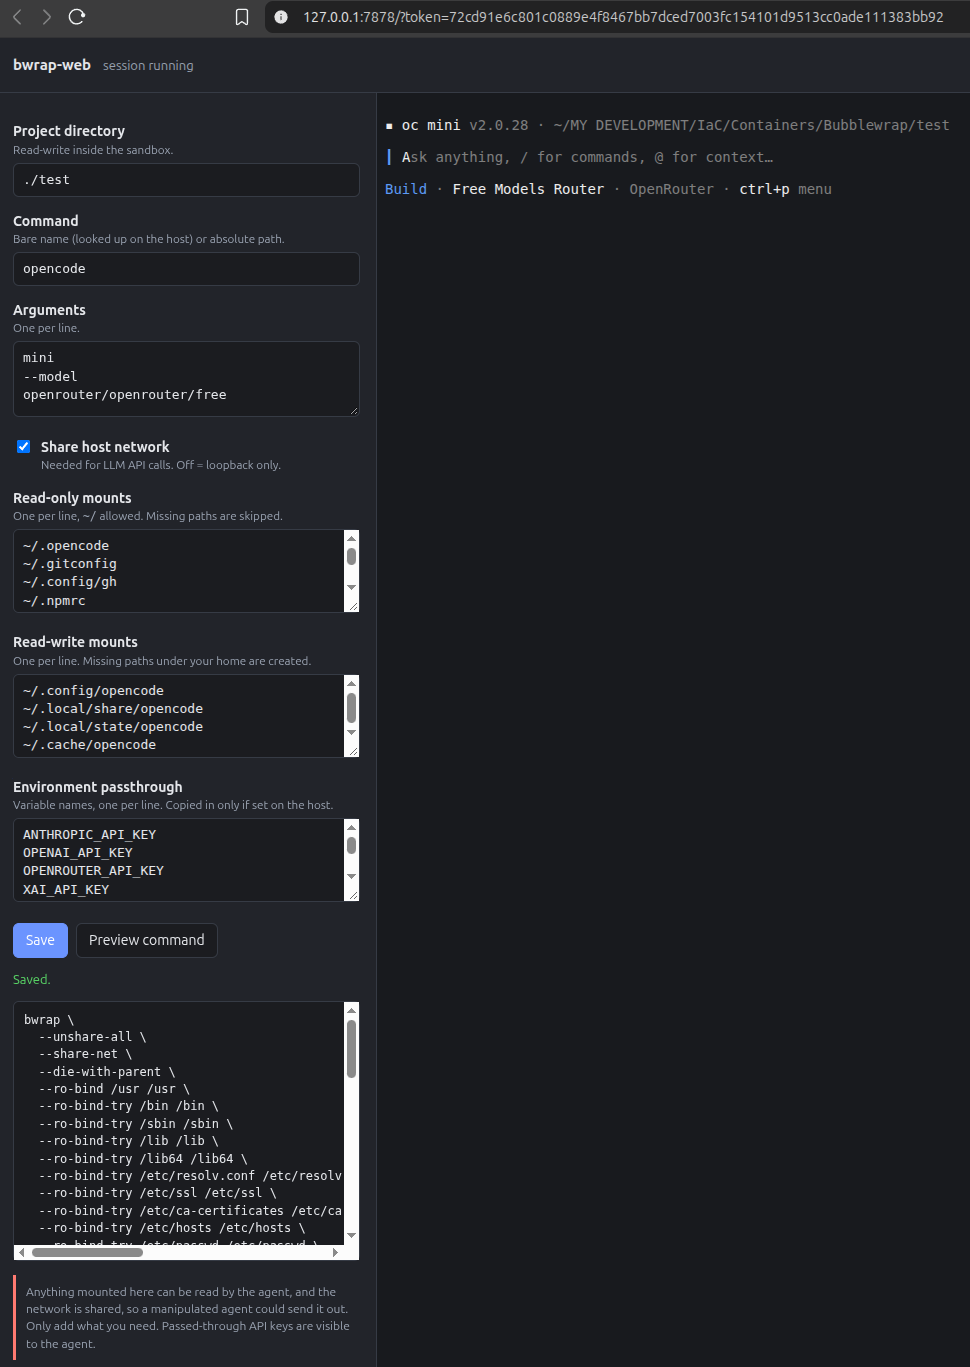
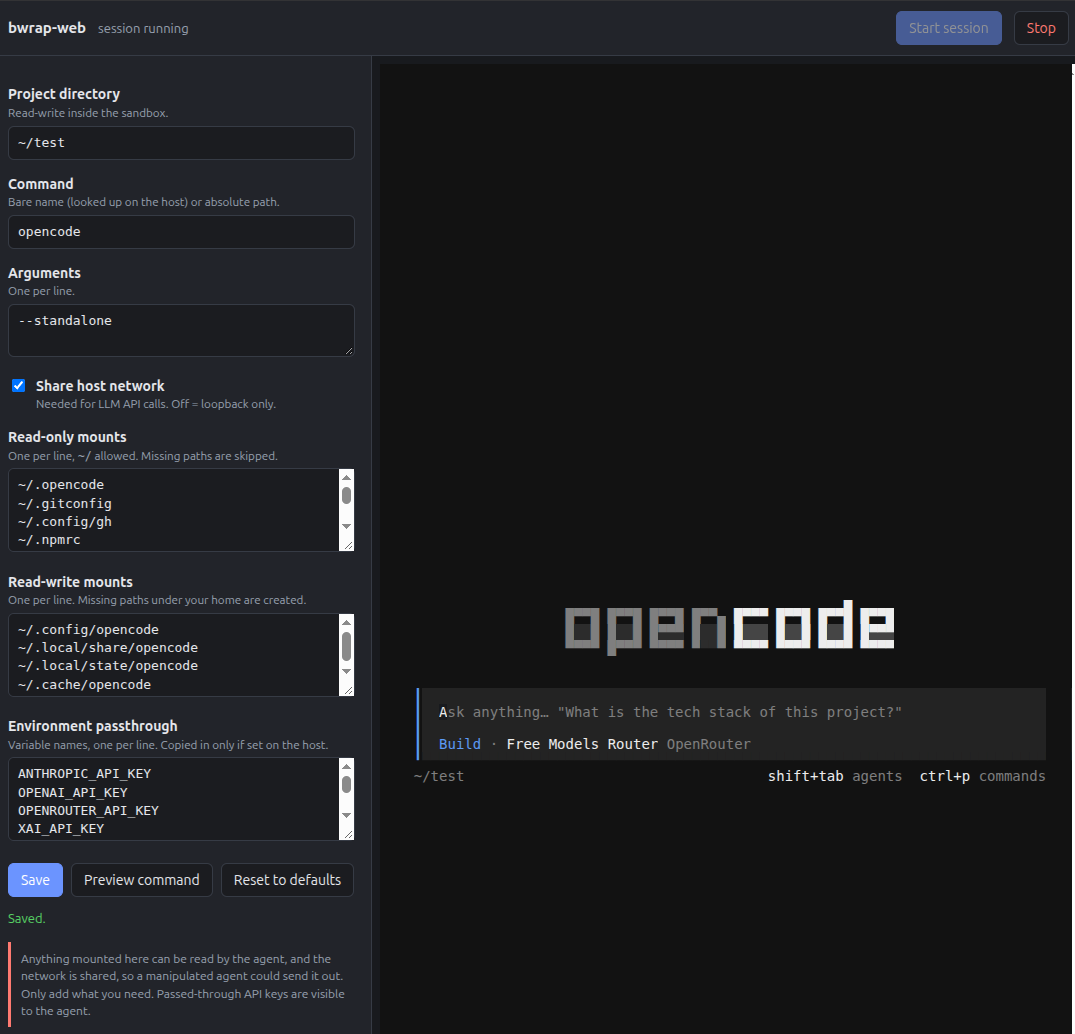
Update README, example image, and source code

diff --git a/src/main.rs b/src/main.rs
@@ -49,7 +49,9 @@ const PROTECTED_RW: [&str; 10] = [
 #[serde(default)]
 struct Config {
     /// Directory the agent may read and write (the "project"). Relative paths are
-    /// resolved against the directory bwrap-web was started from.
+    /// resolved against the directory bwrap-web was started from. Paths under
+    /// `$HOME` are stored in `~/...` form, which `expand` resolves back to the
+    /// same absolute path.
     project_dir: String,
     /// Program to run inside the sandbox: bare name (looked up on the host) or absolute path.
     command: String,
@@ -73,7 +75,13 @@ impl Default for Config {
                 .map(|p| p.to_string_lossy().into_owned())
                 .unwrap_or_default(),
             command: "opencode".into(),
-            args: vec![],
+            // `--standalone` makes the agent run its own server as a child
+            // process instead of attaching to the long-lived host-side
+            // `opencode serve` daemon, whose tool calls would run outside these
+            // namespaces. Note that OpenCode only accepts the flag at the
+            // position shown here — before a subcommand it rejects it — so
+            // "run"/"mini" invocations need it after the subcommand instead.
+            args: vec!["--standalone".into()],
             share_net: true,
             ro_mounts: strs(&[
                 "~/.opencode",
@@ -129,8 +137,8 @@ fn clean_list(v: &[String]) -> Vec<String> {
 }
 
 impl Config {
-    fn normalized(mut self) -> Config {
-        self.project_dir = self.project_dir.trim().to_string();
+    fn normalized(mut self, home: &Path) -> Config {
+        self.project_dir = shorten_home(self.project_dir.trim(), home);
         self.command = self.command.trim().to_string();
         self.args = clean_list(&self.args);
         self.ro_mounts = clean_list(&self.ro_mounts);
@@ -149,14 +157,14 @@ fn home_dir() -> Result<PathBuf> {
     Ok(h)
 }
 
-fn load_config(path: &Path) -> Result<Config> {
+fn load_config(path: &Path, home: &Path) -> Result<Config> {
     if !path.exists() {
-        return Ok(Config::default());
+        return Ok(Config::default().normalized(home));
     }
     let text = std::fs::read_to_string(path).with_context(|| format!("reading {}", path.display()))?;
     let cfg: Config =
         serde_json::from_str(&text).with_context(|| format!("parsing {}", path.display()))?;
-    Ok(cfg.normalized())
+    Ok(cfg.normalized(home))
 }
 
 fn save_config(path: &Path, cfg: &Config) -> Result<()> {
@@ -202,6 +210,31 @@ fn expand(p: &str, home: &Path) -> Result<PathBuf> {
 
 fn expand_all(list: &[String], home: &Path) -> Result<Vec<PathBuf>> {
     list.iter().map(|m| expand(m, home)).collect()
+}
+
+/// Render a path under `home` as `~/sub/dir` instead of `/home/user/sub/dir`, so
+/// the settings page and the config file do not spell out the full home path.
+/// Anything outside `home` is returned unchanged.
+///
+/// Only absolute inputs are rewritten, and the prefix test is component-wise
+/// (`strip_prefix`, not string `starts_with`), so `/home/yfoo` is not mistaken
+/// for `/home/y`. Relative inputs are deliberately left alone: `resolve_project`
+/// anchors them to the directory bwrap-web was started from, and rewriting them
+/// against `$HOME` would silently repoint them at a different directory.
+///
+/// This is presentation only. `expand` turns `~/...` back into the same absolute
+/// path before `check_mount` runs, so the home-directory guard still sees the
+/// real location.
+fn shorten_home(p: &str, home: &Path) -> String {
+    let path = Path::new(p);
+    if !path.is_absolute() {
+        return p.to_string();
+    }
+    match path.strip_prefix(home).ok().and_then(|rest| rest.to_str()) {
+        Some("") => "~".to_string(),
+        Some(rest) => format!("~/{rest}"),
+        None => p.to_string(),
+    }
 }
 
 /// Resolve the project directory. Relative paths (`./test`, `../x`, `test`) are resolved
@@ -544,15 +577,15 @@ async fn get_config(State(st): State<Shared>) -> Json<Config> {
 
 /// The built-in defaults, so the UI can offer a "reset to defaults" without
 /// having to persist them first.
-async fn get_config_defaults() -> Json<Config> {
-    Json(Config::default())
+async fn get_config_defaults(State(st): State<Shared>) -> Json<Config> {
+    Json(Config::default().normalized(&st.home))
 }
 
 async fn put_config(
     State(st): State<Shared>,
     Json(cfg): Json<Config>,
 ) -> Result<Json<Config>, ApiError> {
-    let cfg = cfg.normalized();
+    let cfg = cfg.normalized(&st.home);
     validate(&cfg, &st.home).map_err(bad_request)?;
     save_config(&st.config_path, &cfg).map_err(|e| {
         ApiError(StatusCode::INTERNAL_SERVER_ERROR, format!("saving config: {e:#}"))
@@ -737,7 +770,7 @@ async fn main() -> Result<()> {
     let port = parse_port()?;
     let home = home_dir()?;
     let config_path = home.join(".config/bwrap-web/config.json");
-    let config = load_config(&config_path)?;
+    let config = load_config(&config_path, &home)?;
 
     let mut raw = [0u8; 32];
     rand::thread_rng().fill_bytes(&mut raw);
@@ -778,4 +811,87 @@ async fn main() -> Result<()> {
 
     axum::serve(listener, app).await?;
     Ok(())
+}
+
+// ---------------------------------------------------------------------------
+// Tests
+// ---------------------------------------------------------------------------
+
+#[cfg(test)]
+mod tests {
+    use super::*;
+
+    fn home() -> PathBuf {
+        PathBuf::from("/home/u")
+    }
+
+    #[test]
+    fn shortens_paths_under_home() {
+        assert_eq!(shorten_home("/home/u/a/b", &home()), "~/a/b");
+        assert_eq!(shorten_home("/home/u", &home()), "~");
+    }
+
+    /// `/home/u2` shares a string prefix with `/home/u` but is a different
+    /// directory; a string comparison would rewrite it to `~2/...` and point
+    /// the project at the wrong place.
+    #[test]
+    fn does_not_shorten_sibling_with_shared_prefix() {
+        assert_eq!(shorten_home("/home/u2/x", &home()), "/home/u2/x");
+    }
+
+    #[test]
+    fn leaves_paths_outside_home_alone() {
+        assert_eq!(
+            shorten_home("/data/projects/x", &home()),
+            "/data/projects/x"
+        );
+        assert_eq!(shorten_home("/", &home()), "/");
+    }
+
+    /// Relative paths are anchored to the process working directory by
+    /// `resolve_project`. Rewriting them against `$HOME` would silently change
+    /// which directory they name.
+    #[test]
+    fn leaves_relative_paths_alone() {
+        assert_eq!(shorten_home("./test", &home()), "./test");
+        assert_eq!(shorten_home("test", &home()), "test");
+        assert_eq!(shorten_home("../other", &home()), "../other");
+    }
+
+    /// Idempotent, so a config that already uses `~` is not mangled on reload.
+    #[test]
+    fn shortening_is_idempotent() {
+        let once = shorten_home("/home/u/a", &home());
+        assert_eq!(shorten_home(&once, &home()), once);
+    }
+
+    /// The shortened form must resolve back to the same directory, which is
+    /// what keeps `check_mount` seeing the real path.
+    #[test]
+    fn shortened_form_expands_back_to_the_same_path() {
+        let abs = "/home/u/a/b";
+        let short = shorten_home(abs, &home());
+        match expand(&short, &home()) {
+            Ok(p) => assert_eq!(p, PathBuf::from(abs)),
+            Err(e) => panic!("expanding {short} failed: {e:#}"),
+        }
+    }
+
+    #[test]
+    fn shortens_project_dir_when_normalizing() {
+        let cfg = Config {
+            project_dir: "/home/u/a/b".into(),
+            ..Config::default()
+        };
+        assert_eq!(cfg.normalized(&home()).project_dir, "~/a/b");
+    }
+
+    #[test]
+    fn normalizes_project_dir_before_always_shortening_it() {
+        let cfg = Config {
+            project_dir: "  /home/u/a  ".into(),
+            ..Config::default()
+        };
+        assert_eq!(cfg.normalized(&home()).project_dir, "~/a");
+    }
 }

diff --git a/README.md b/README.md
@@ -65,7 +65,7 @@ The token changes every time the server starts. Stop the server with Ctrl-C.
 
 | Setting                     | Meaning                                                      |
 | --------------------------- | ------------------------------------------------------------ |
-| **Project directory**       | The only directory the agent can write to (besides the read-write mounts). Absolute, `~/...`, or relative (see below). |
+| **Project directory** | The only directory the agent can write to (besides the read-write mounts). Defaults to the directory you started `bwrap-web` from. Absolute, `~/...`, or relative (see below). |
 | **Command**                 | Program to run in the sandbox. A bare name is looked up on the host (`PATH`, then `~/.opencode/bin`, then `~/.local/bin`); or give an absolute path. |
 | **Arguments**               | Arguments for the program, **one per line**.                 |
 | **Share host network**      | On: the sandbox uses the host network (needed for LLM APIs and `localhost` services). Off: loopback only. |
@@ -73,13 +73,19 @@ The token changes every time the server starts. Stop the server with Ctrl-C.
 | **Read-write mounts**       | Extra paths visible read-write, one per line. Missing paths under your home directory are created so agent state persists. |
 | **Environment passthrough** | Names of host environment variables to copy into the sandbox, if they are set. Everything else is cleared. |
 
-### Relative project paths
+### Project directory paths
 
-`./test`, `test` and `../other` are resolved against the directory where `bwrap-web` was **started**, then canonicalized (symlinks and `..` resolved) before any safety check runs. A saved `./test` therefore points at a different folder if you start the server from a different directory. Use an absolute path or `~/...` for a fixed project.
+The field defaults to the directory you started `bwrap-web` from, so `bwrap-web` and then `opencode` in a checkout needs no setup.
+
+Any path under your home directory is stored and displayed in `~/...` form rather than as the full `/home/you/...` path — that's purely cosmetic, `~` is expanded back to the same absolute directory before the safety checks and before `bwrap` runs. Paths outside your home directory (say `/data/projects/x`) are kept absolute, as are relative ones.
+
+Relative paths (`./test`, `test`, `../other`) are resolved against the directory where `bwrap-web` was **started**, then canonicalized (symlinks and `..` resolved) before any safety check runs. They are deliberately left unshortened, so a saved `./test` still points at a different folder if you start the server from a different directory. Use `~/...` or an absolute path for a fixed project.
 
 ### Arguments: one per line using OpenCode as an example
 
 These examples use flags verified against OpenCode v2.0.28. Check the [official CLI docs](https://opencode.ai/docs/cli/) for the latest flags.
+
+The default is a single `--standalone` line. Without it, OpenCode attaches to a long-lived host-side `opencode serve --service` daemon and runs its tool calls *there*, i.e. outside the namespaces, so nothing this sandbox does would contain them. `--standalone` makes the agent start its own server as a child process, which inherits the mount and PID namespaces. Removing the line trades containment for the shared background service.
 
 Each line becomes exactly one argument. A flag and its value go on separate lines, and no quoting is needed:
 
@@ -91,7 +97,19 @@ openrouter/openrouter/free
 
 This opens the TUI with the chosen model.
 
-A line like `-m openrouter/openrouter/free` would be passed as a single argument containing a space, which most programs reject. Leave the field empty for a normal interactive session. Check your agent's `--help` for the flags it supports.
+A line like `-m openrouter/openrouter/free` would be passed as a single argument containing a space, which most programs reject. Check your agent's `--help` for the flags it supports.
+
+### Flag order matters for `run` and `mini`
+
+The default `--standalone` is only accepted **before** a subcommand. `opencode --standalone run "..."` fails with `Unrecognized flag: --standalone in command opencode run`, so when you add `run` or `mini` you have to move the flag **after** it:
+
+```
+run
+--standalone
+fix the failing tests
+```
+
+Administrative subcommands (`session`, `debug`, `models`, ...) reject `--standalone` entirely — leave it out for those. `bwrap-web` does not reorder the list for you; it passes the arguments in exactly the order shown.
 
 **Continue your last session:**
 
